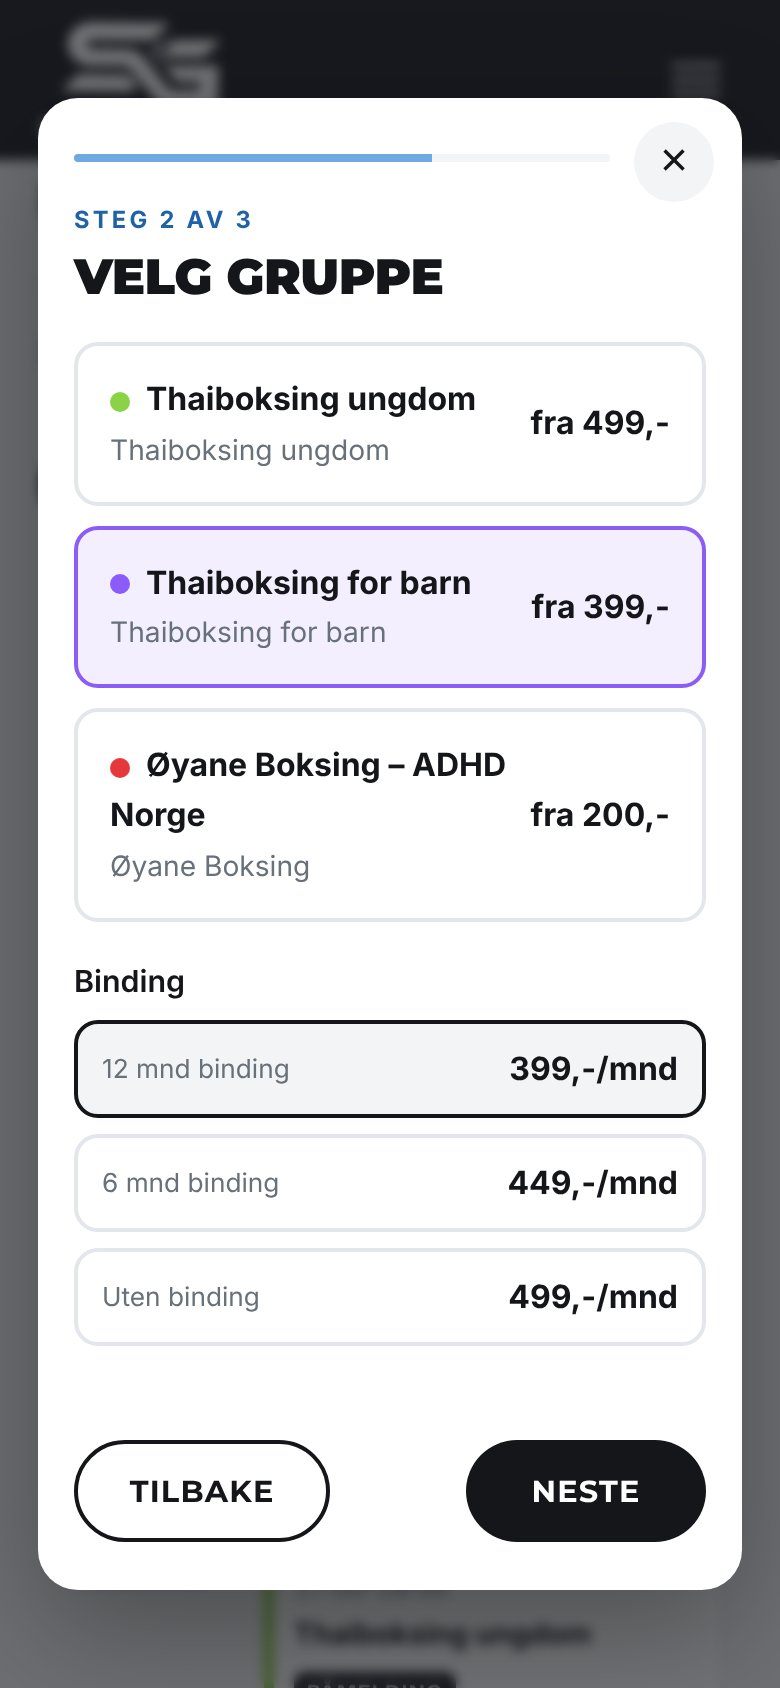
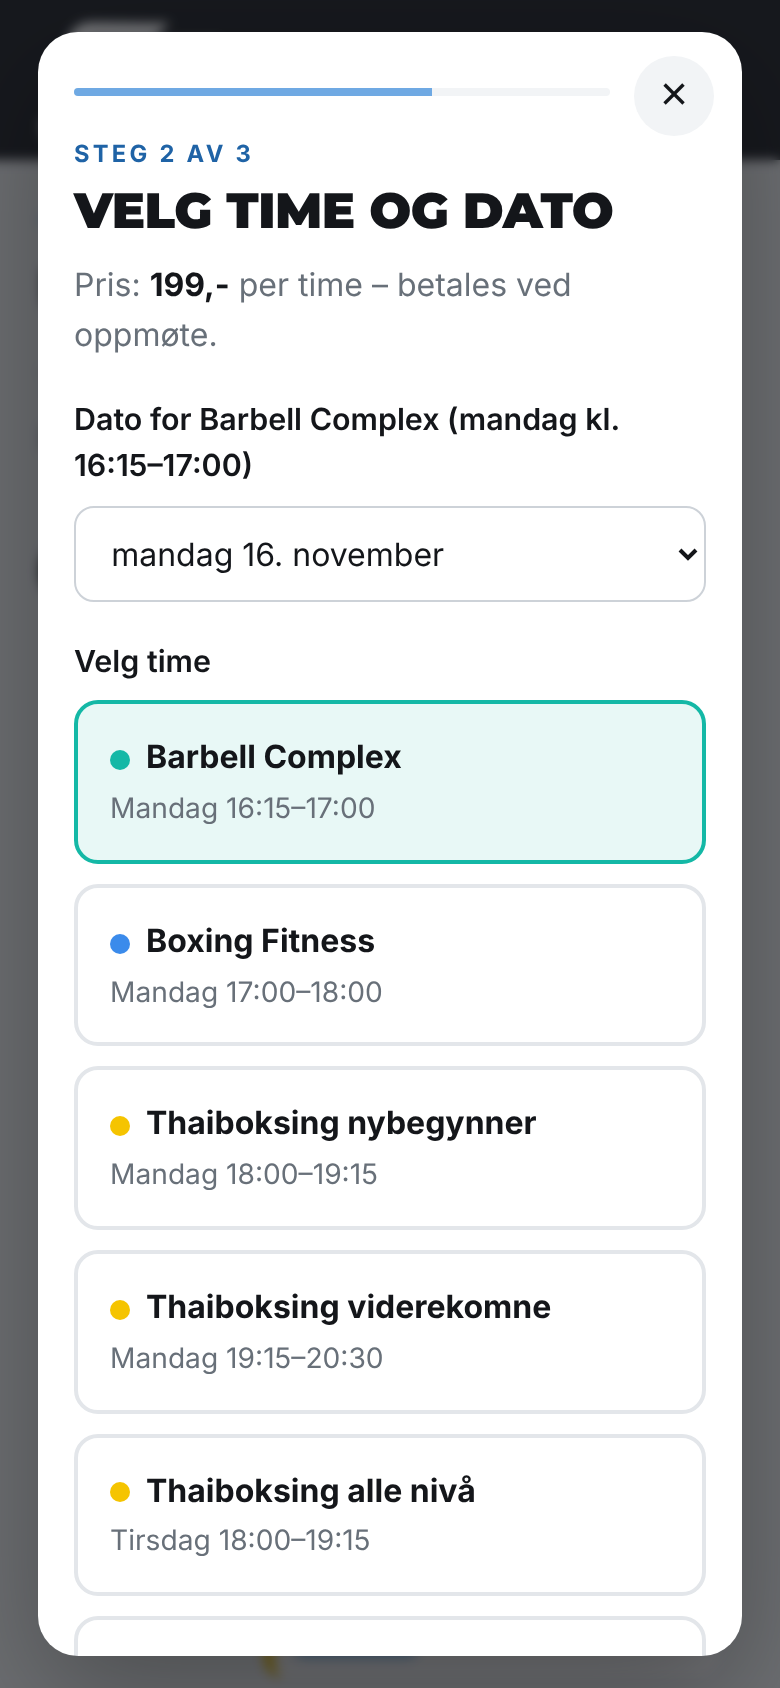
Legg inn ekte timeplan og Øyane Boksing (ADHD Norge)
Mandag 17:00–18:00 og onsdag 18:00–19:00 for ADHD Norge. Søndag vises som stengt.

Claude-Session: https://claude.ai/code/session_01Gwehhd8pU9Sc3D8JfSkoPq

diff --git a/boxfit/app.js b/boxfit/app.js
@@ -16,6 +16,7 @@
   const fra = (m) => (m.priser ? Math.min(...Object.values(m.priser)) : m.pris);
   const dots = (ids) => ids.map((id) => `<i class="dot" style="--c:${G[id].farge}" title="${esc(G[id].navn)}"></i>`).join("");
   // Medlemskapet som passer best for en gruppe (minst mulig pakke som inkluderer gruppen)
+  const tn = (t) => t.tittel || G[t.gruppe].navn;
   const planFor = (gid) => D.medlemskap.filter((m) => m.grupper.includes(gid)).sort((a, b) => a.grupper.length - b.grupper.length)[0];
 
   /* ---------- Meny ---------- */
@@ -58,7 +59,7 @@
   $("#sportGrid").addEventListener("click", (e) => {
     const b = e.target.closest("[data-sport]"); if (!b) return;
     const g = G[b.dataset.sport], plan = planFor(g.id);
-    const tider = D.timeplan.filter((t) => t.gruppe === g.id).map((t) => `<span>${DAGER[t.dag - 1].slice(0, 3)} ${esc(t.tid)}</span>`).join("");
+    const tider = D.timeplan.filter((t) => t.gruppe === g.id).map((t) => `<span>${DAGER[t.dag - 1].slice(0, 3)} ${esc(t.tid)}${t.tittel ? ` · ${esc(t.tittel.replace(/^Thaiboksing /, ""))}` : ""}</span>`).join("");
     const harDropin = D.timeplan.some((t) => t.gruppe === g.id && t.dropin);
     $("#sportDialogBody").innerHTML = `
       <img class="dialog-img" src="${esc(g.bilde)}" alt="">
@@ -81,7 +82,7 @@
   let filter = "alle";
   const filterEl = $("#filter");
   filterEl.innerHTML = `<button class="chip" data-f="alle" aria-pressed="true">Alle</button><button class="chip" data-f="dropin" aria-pressed="false">Kun drop-in</button>` +
-    D.grupper.map((g) => `<button class="chip" data-f="${g.id}" aria-pressed="false" style="--c:${g.farge}"><i class="dot"></i>${esc(g.navn)}</button>`).join("");
+    D.grupper.filter((g) => D.timeplan.some((t) => t.gruppe === g.id)).map((g) => `<button class="chip" data-f="${g.id}" aria-pressed="false" style="--c:${g.farge}"><i class="dot"></i>${esc(g.navn)}</button>`).join("");
   filterEl.addEventListener("click", (e) => {
     const b = e.target.closest(".chip"); if (!b) return;
     filter = b.dataset.f;
@@ -95,10 +96,10 @@
         .filter((t) => filter === "alle" || (filter === "dropin" ? t.dropin : t.gruppe === filter))
         .sort((a, b) => a.tid.localeCompare(b.tid));
       const html = slots.map((t) => `<button class="slot" style="--c:${G[t.gruppe].farge}" data-slot="${D.timeplan.indexOf(t)}">
-          <span class="t">${esc(t.tid)}</span><span class="n">${esc(G[t.gruppe].navn)}</span>
+          <span class="t">${esc(t.tid)}</span><span class="n">${esc(tn(t))}</span>
           ${t.dropin ? `<span class="tag tag-drop">Drop-in</span>` : `<span class="tag tag-grp">Påmelding</span>`}</button>`).join("");
-      return `<div class="day ${dag === idag ? "today" : ""} ${slots.length ? "" : "is-empty"}"><h3>${navn}${dag === idag ? " · i dag" : ""}</h3>
-        <div class="slots">${html || `<div class="empty">Ingen timer</div>`}</div></div>`;
+      return `<div class="day ${dag === idag ? "today" : ""} ${slots.length || (D.stengt || {})[dag] ? "" : "is-empty"}"><h3>${navn}${dag === idag ? " · i dag" : ""}</h3>
+        <div class="slots">${html || `<div class="empty ${(D.stengt || {})[dag] ? "closed" : ""}">${esc((D.stengt || {})[dag] || "Ingen timer")}</div>`}</div></div>`;
     }).join("");
   }
   renderSchedule();
@@ -193,7 +194,7 @@
       if (state.slot == null && state.sport) { const f = slots.find((t) => t.gruppe === state.sport); if (f) state.slot = f.i; }
       body.innerHTML = `<p class="note">Pris: <b>${kr(DROPIN.pris)}</b> per time – betales ved oppmøte.</p>
         <div id="dateWrap"></div><p class="sub">Velg time</p>
-        <div class="choice-grid">${slots.map((t) => radio("slot", t.i, G[t.gruppe].navn, `${DAGER[t.dag - 1]} ${esc(t.tid)}`, "", t.i === state.slot, G[t.gruppe].farge)).join("")}</div>`;
+        <div class="choice-grid">${slots.map((t) => radio("slot", t.i, tn(t), `${DAGER[t.dag - 1]} ${esc(t.tid)}`, "", t.i === state.slot, G[t.gruppe].farge)).join("")}</div>`;
       body.onchange = (e) => { if (e.target.name === "slot") { state.slot = +e.target.value; renderDates(); } };
       renderDates();
       return;
@@ -222,14 +223,14 @@
     const w = $("#dateWrap"); if (!w) return;
     if (state.slot == null) { w.innerHTML = ""; return; }
     const t = D.timeplan[state.slot];
-    w.innerHTML = `<p class="sub">Dato for ${esc(G[t.gruppe].navn)} (${DAGER[t.dag - 1].toLowerCase()} kl. ${esc(t.tid)})</p>
+    w.innerHTML = `<p class="sub">Dato for ${esc(tn(t))} (${DAGER[t.dag - 1].toLowerCase()} kl. ${esc(t.tid)})</p>
       <select name="dato">${nextDates(t.dag).map((d) => `<option value="${iso(d)}">${d.toLocaleDateString("nb-NO", { weekday: "long", day: "numeric", month: "long" })}</option>`).join("")}</select>`;
   }
 
   function describe() {
     if (state.type === "dropin") {
       const t = D.timeplan[state.slot];
-      return { tittel: `Drop-in: ${G[t.gruppe].navn}`, detaljer: `${form.dato.selectedOptions[0].textContent} kl. ${t.tid} · ${kr(DROPIN.pris)}`, barn: false };
+      return { tittel: `Drop-in: ${tn(t)}`, detaljer: `${form.dato.selectedOptions[0].textContent} kl. ${t.tid} · ${kr(DROPIN.pris)}`, barn: false };
     }
     const p = M[state.plan];
     const pris = p.priser ? `${BINDING[state.binding]} · ${kr(p.priser[state.binding])}/mnd` : `${kr(p.pris)}${p.enhet}`;

diff --git a/boxfit/data.js b/boxfit/data.js
@@ -91,24 +91,38 @@ window.BOXFIT = {
   ],
 
   /* ---------- Timeplan (dag 1 = mandag … 7 = søndag) ----------
-   * TODO: EKSEMPEL – bytt til ekte timeplan.
+   * Fra timeplanen på boxfitsotra.net + Øyane Boksing (ADHD Norge).
+   * tittel: valgfritt navn på timen (ellers brukes gruppenavnet).
+   * dropin: true = åpen for drop-in. TODO: sjekk hvilke timer som er åpne for drop-in.
    */
   timeplan: [
-    { dag: 1, tid: "17:00–18:00", gruppe: "barn",     dropin: false },
-    { dag: 1, tid: "18:15–19:15", gruppe: "boxing",   dropin: true  },
-    { dag: 1, tid: "19:30–21:00", gruppe: "muaythai", dropin: true  },
-    { dag: 2, tid: "17:00–18:00", gruppe: "ungdom",   dropin: false },
-    { dag: 2, tid: "18:15–19:15", gruppe: "bootcamp", dropin: true  },
-    { dag: 2, tid: "19:30–20:30", gruppe: "barbell",  dropin: true  },
-    { dag: 3, tid: "17:00–18:00", gruppe: "oyane",    dropin: false },
-    { dag: 3, tid: "18:15–19:15", gruppe: "boxing",   dropin: true  },
-    { dag: 3, tid: "19:30–21:00", gruppe: "muaythai", dropin: true  },
-    { dag: 4, tid: "17:00–18:00", gruppe: "barn",     dropin: false },
-    { dag: 4, tid: "18:15–19:15", gruppe: "barbell",  dropin: true  },
-    { dag: 4, tid: "19:30–20:30", gruppe: "bootcamp", dropin: true  },
-    { dag: 5, tid: "17:00–18:00", gruppe: "ungdom",   dropin: false },
-    { dag: 5, tid: "18:15–19:45", gruppe: "muaythai", dropin: true  }
+    { dag: 1, tid: "16:15–17:00", gruppe: "barbell", dropin: true },
+    { dag: 1, tid: "17:00–18:00", gruppe: "boxing", dropin: true },
+    { dag: 1, tid: "17:00–18:00", gruppe: "oyane", dropin: false },
+    { dag: 1, tid: "18:00–19:15", gruppe: "muaythai", tittel: "Thaiboksing nybegynner", dropin: true },
+    { dag: 1, tid: "19:15–20:30", gruppe: "muaythai", tittel: "Thaiboksing viderekomne", dropin: true },
+    { dag: 2, tid: "17:00–18:00", gruppe: "barn", tittel: "Thaiboksing barneparti", dropin: false },
+    { dag: 2, tid: "18:00–19:15", gruppe: "muaythai", tittel: "Thaiboksing alle nivå", dropin: true },
+    { dag: 2, tid: "19:15–20:15", gruppe: "boxing", dropin: true },
+    { dag: 2, tid: "20:15–21:00", gruppe: "barbell", dropin: true },
+    { dag: 3, tid: "16:15–17:00", gruppe: "barbell", dropin: true },
+    { dag: 3, tid: "17:00–18:00", gruppe: "boxing", dropin: true },
+    { dag: 3, tid: "18:00–19:00", gruppe: "oyane", dropin: false },
+    { dag: 3, tid: "18:00–19:15", gruppe: "muaythai", tittel: "Thaiboksing nybegynner", dropin: true },
+    { dag: 3, tid: "19:00–20:30", gruppe: "muaythai", tittel: "Thaiboksing viderekomne", dropin: true },
+    { dag: 4, tid: "17:00–18:00", gruppe: "barn", tittel: "Thaiboksing barneparti", dropin: false },
+    { dag: 4, tid: "18:00–19:15", gruppe: "muaythai", tittel: "Thaiboksing viderekomne", dropin: true },
+    { dag: 4, tid: "19:15–20:15", gruppe: "boxing", dropin: true },
+    { dag: 4, tid: "20:15–21:00", gruppe: "barbell", dropin: true },
+    { dag: 5, tid: "17:00–18:00", gruppe: "muaythai", tittel: "Thaiboksing nybegynner", dropin: true },
+    { dag: 5, tid: "18:00–19:00", gruppe: "muaythai", tittel: "Thaiboksing sparring", dropin: true },
+    { dag: 5, tid: "19:00–19:45", gruppe: "muaythai", tittel: "Thaiboksing clinching", dropin: true },
+    { dag: 6, tid: "11:00–12:00", gruppe: "boxing", dropin: true },
+    { dag: 6, tid: "12:00–13:00", gruppe: "barbell", dropin: true },
+    { dag: 6, tid: "13:00–14:00", gruppe: "barn", tittel: "Thaiboksing barneparti", dropin: false },
+    { dag: 6, tid: "14:00–15:30", gruppe: "muaythai", tittel: "Thaiboksing alle nivå", dropin: true }
   ],
+  stengt: { 7: "Boks stengt" },
 
   /* ---------- Medlemskap og priser ----------
    * priser: { 12: pris med 12 mnd binding, 6: med 6 mnd, 0: uten binding }

diff --git a/boxfit/styles.css b/boxfit/styles.css
@@ -299,3 +299,4 @@ input[aria-invalid="true"] { border-color: #D93025; }
 .note b { color: var(--ink); }
 .addon { background: var(--grey); padding: 12px 14px; border-radius: 12px; color: var(--text); }
 .contact-list .ct { color: #fff; font-weight: 600; }
+.empty.closed { font: 800 .9rem Montserrat, sans-serif; text-transform: uppercase; letter-spacing: .04em; color: var(--ink); padding: 10px 4px; }

diff --git a/boxfit/README.md b/boxfit/README.md
@@ -14,7 +14,7 @@ En enkel, rask nettside uten innlogging eller database. Den består av fire file
 
 Tekster og priser er hentet fra boxfitsotra.net. Dette må fortsatt fylles inn i `data.js`:
 
-- [ ] **Timeplan** – den som ligger inne nå er et eksempel
+- [ ] Sjekk hvilke timer som er åpne for drop-in (`dropin` i timeplanen)
 - [ ] Instagram/Facebook-lenker
 - [ ] `loggInnUrl` – lenken til medlemssystemet (knappen «Logg inn»)
 
